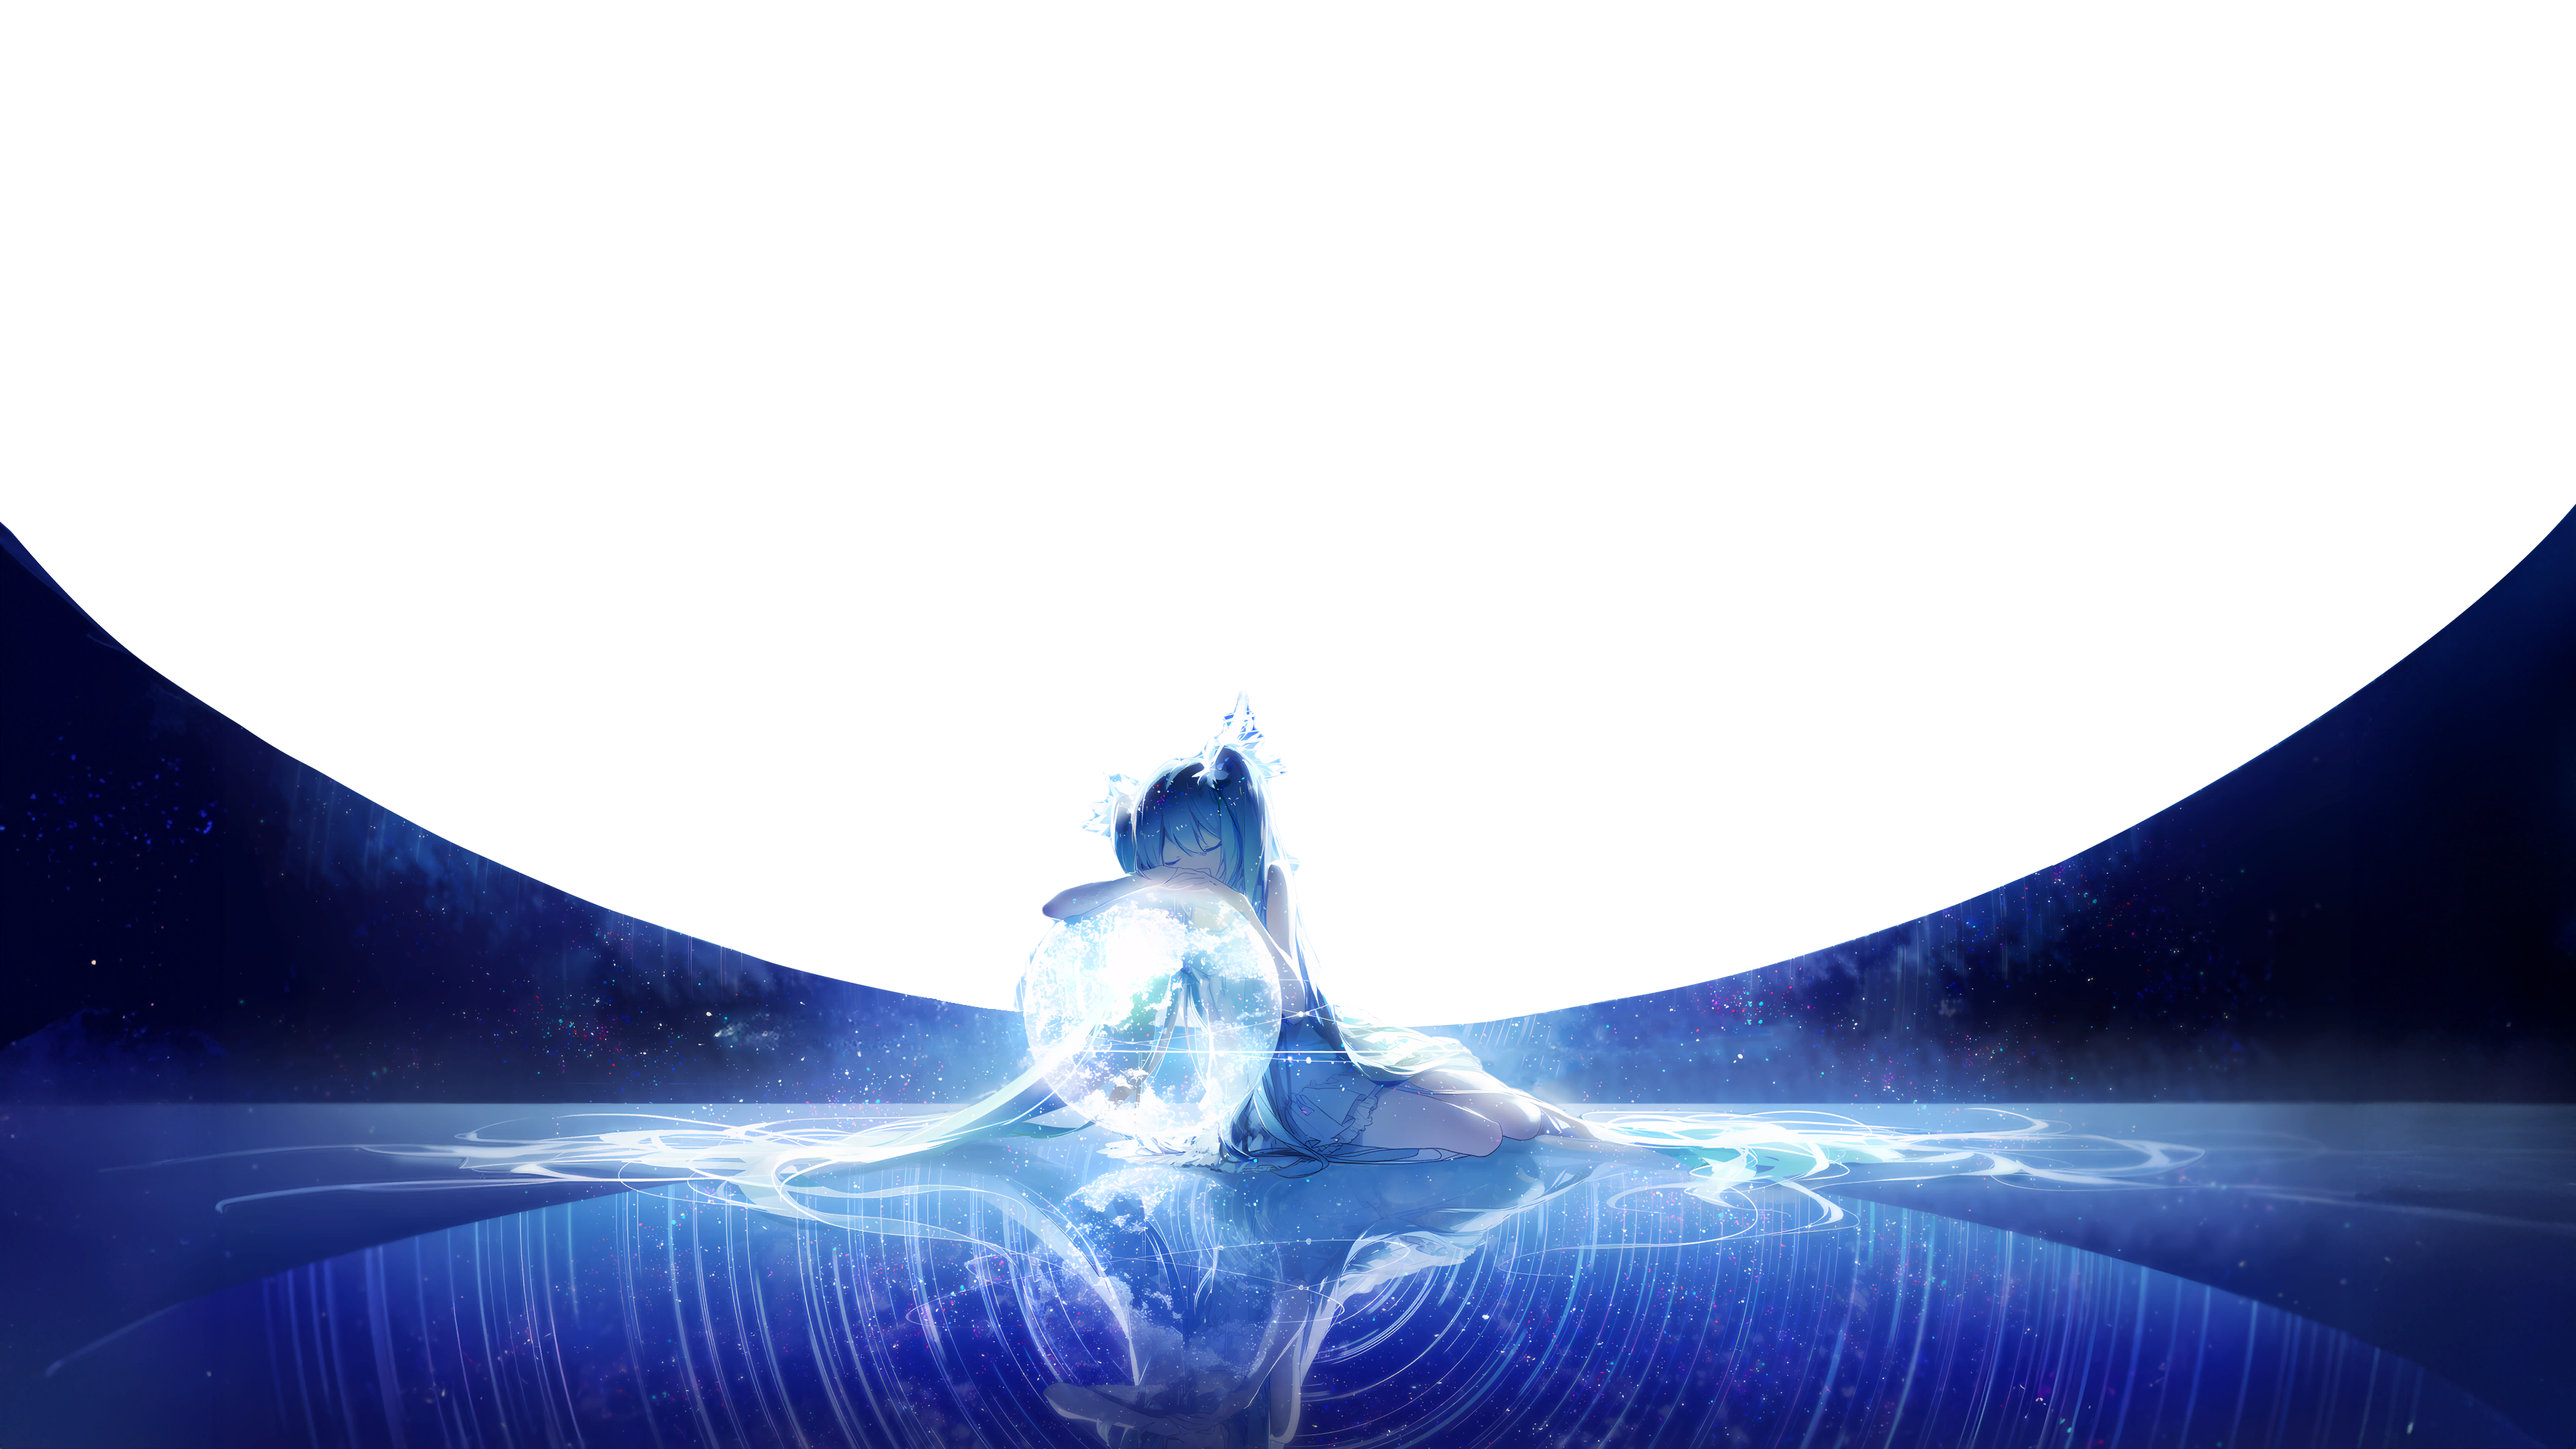
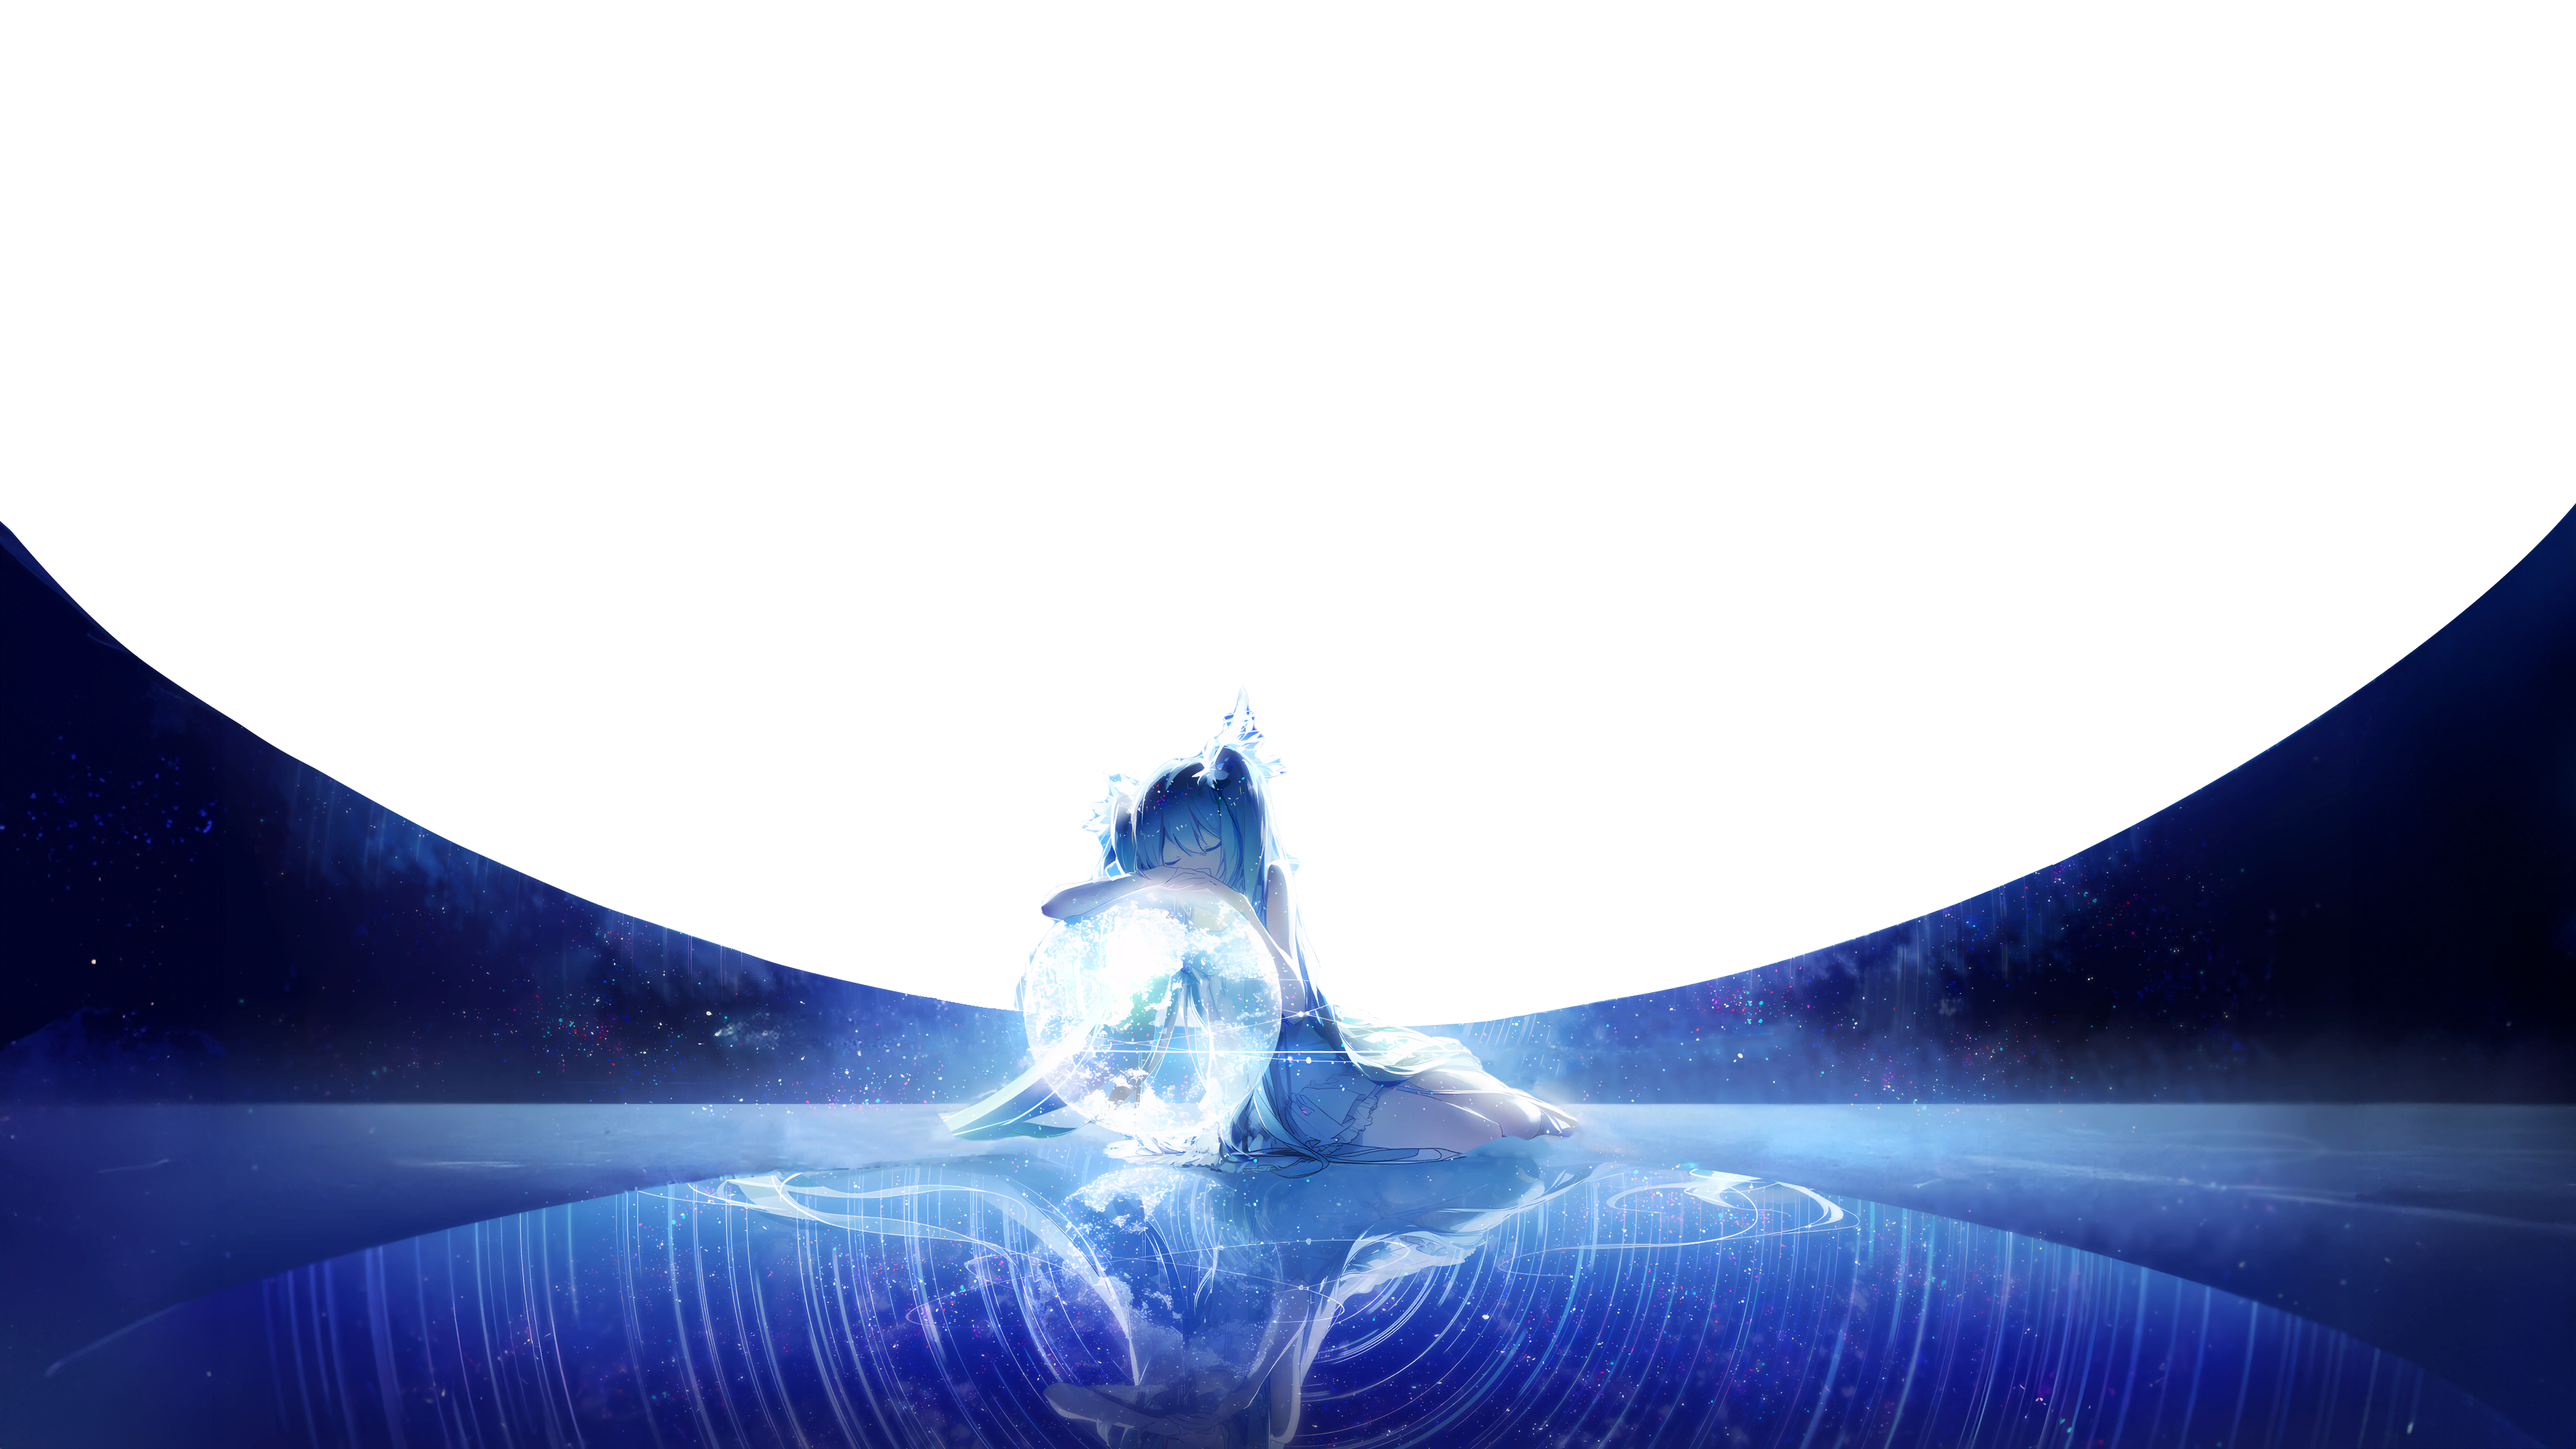
shangles

Changed region(s): [[0.0938, 0.7444, 0.4062, 0.8375], [0.5625, 0.7444, 0.8438, 0.8375], [0.4062, 0.5894, 0.4375, 0.6204]]

diff --git a/Components/SideMenu.qml b/Components/SideMenu.qml
@@ -175,9 +175,9 @@ Item {
           ListElement { icon: "▸"; label: "Quicktoggle" }
           ListElement { icon: "◈"; label: "Shaders" }
           ListElement { icon: "◫"; label: "Searchapp" }
-          ListElement { icon: "♫"; label: "Lunar" }
+          ListElement { icon: "◉"; label: "Lunar" }
           ListElement { icon: "▣"; label: "Info" }
-          ListElement { icon: "◉"; label: "Power" }
+          ListElement { icon: "x"; label: "Power" }
         }
         delegate: Item {
           id: menuItem
@@ -203,6 +203,8 @@ Item {
                 Dat.Globals.sideMenuView = "files"
               } else if (menuItem.label === "Info") {
                 Dat.Globals.sideMenuView = "sysinfo"
+              }else if (menuItem.label === "Lunar") {
+                Dat.Globals.sideMenuView = "lunar"
               }
             }
           }
@@ -256,24 +258,23 @@ Item {
     }
   }
 
-  // Toggles panel
-Item {
-  id: togglesBlob
-  width: root.menuWidth
-  height: parent.height
-  x: root.currentView === "toggles" ? 0 : root.menuWidth
-  Behavior on x {
-    NumberAnimation { duration: 450; easing.type: Easing.InOutCubic }
-  }
-  Wid.QuickTogglesPanel {
-    anchors.fill: parent
-    opacity: root.currentView === "toggles" ? 1.0 : 0.0
-    visible: opacity > 0
-    Behavior on opacity {
-      NumberAnimation { duration: 300; easing.type: Easing.OutCubic }
+  Item {
+    id: togglesBlob
+    width: root.menuWidth
+    height: parent.height
+    x: root.currentView === "toggles" ? 0 : root.menuWidth
+    Behavior on x {
+      NumberAnimation { duration: 450; easing.type: Easing.InOutCubic }
+    }
+    Wid.QuickTogglesPanel {
+      anchors.fill: parent
+      opacity: root.currentView === "toggles" ? 1.0 : 0.0
+      visible: opacity > 0
+      Behavior on opacity {
+        NumberAnimation { duration: 300; easing.type: Easing.OutCubic }
+      }
     }
   }
-}
 
   Item {
       id: sysinfoBlob
@@ -293,14 +294,29 @@ Item {
       }
     }
 
+  Item {
+      id: lunarBlob
+      width: root.menuWidth
+      height: parent.height
+      x: root.currentView === "lunar" ? 0 : root.menuWidth
+      Behavior on x {
+          NumberAnimation { duration: 450; easing.type: Easing.InOutCubic }
+      }
+      SideMenuLunar {
+          anchors.fill: parent
+          opacity: root.currentView === "lunar" ? 1.0 : 0.0
+          visible: opacity > 0
+          Behavior on opacity {
+              NumberAnimation { duration: 300; easing.type: Easing.OutCubic }
+          }
+      }
+  }
 
-  // Settings panel
   SideMenuSettings {
     menuWidth: root.menuWidth
     currentView: root.currentView
   }
 
-  // Wi-Fi panel
   SideMenuWifi {
     menuWidth: root.menuWidth
     currentView: root.currentView

diff --git a/Widgets/WallpaperEngine.qml b/Widgets/WallpaperEngine.qml
@@ -107,9 +107,9 @@ WlrLayershell {
 
         Image {
             id: s1_moon
-            source: Qt.resolvedUrl("../Assets/moon.png")
+            source: Qt.resolvedUrl("../Assets/base.png")
             anchors.fill: parent
-            fillMode: Image.PreserveAspectCrop
+            fillMode: Image.PreserveAspectFit
             smooth: true
             mipmap: true
         }
@@ -349,45 +349,13 @@ WlrLayershell {
         onTriggered: s_trail.tick(0.016)
     }
 
-    ShaderEffect {
-        id: s5_final
-        anchors.fill: parent
-        visible: false
-
-        property var  source:          s4_out
-        property var  normalMapSource: img_black
-        property var  trailMap:        s_trail
-        property var  depthMask:       img_moondepth
-        property real time:            0
-        property real rippleStrength:  0.8
-        property real rippleX:         0.5
-        property real rippleY:         0.5
-        property real rippleAge:       999.0
-
-        NumberAnimation on time {
-            from: 0; to: 1000; duration: 100000
-            loops: Animation.Infinite; running: true
-        }
-
-        vertexShader:   Qt.resolvedUrl("../Assets/shaders/waterripple/waterripple.vert.qsb")
-        fragmentShader: Qt.resolvedUrl("../Assets/shaders/waterripple/waterripple.frag.qsb")
-    }
-
-    ShaderEffectSource {
-        id: s5_out
-        sourceItem: s5_final
-        anchors.fill: parent
-        visible: false
-        hideSource: true
-    }
-
     // Stage 5 — Parallax (final visible output)
     ShaderEffect {
         id: s2_parallax
         anchors.fill: parent
         visible: true
 
-        property var  source:           s5_out
+        property var  source:           s4_out
         property real offsetX:          Dat.Globals.mouseOffsetX
         property real offsetY:          Dat.Globals.mouseOffsetY
         property real parallaxStrength: 0.30

diff --git a/Components/SideMenuLunar.qml b/Components/SideMenuLunar.qml
@@ -1,0 +1,27 @@
+import QtQuick
+import QtQuick.Layouts
+import qs.Data as Dat
+import qs.Layers as Lay
+
+Item {
+    id: root
+
+    ColumnLayout {
+        anchors.centerIn: parent
+        spacing: 16
+
+        Lay.LunarClockFace {
+            Layout.alignment: Qt.AlignHCenter
+        }
+
+        Text {
+            Layout.alignment: Qt.AlignHCenter
+            color: Dat.Colors.foregroundMuted
+            font.family: "Inter"
+            font.letterSpacing: 2
+            font.pixelSize: 12
+            font.weight: Font.Light
+            text: "L U N A R"
+        }
+    }
+}

diff --git a/shell.qml b/shell.qml
@@ -32,6 +32,9 @@ ShellRoot {
       Lay.VolumeMoon {
         modelData: modelData
       }
+      Lay.MediaPlayer {
+        modelData: modelData
+      }
       Comp.SideMenuApps {
         modelData: scopeRoot.modelData
       }
